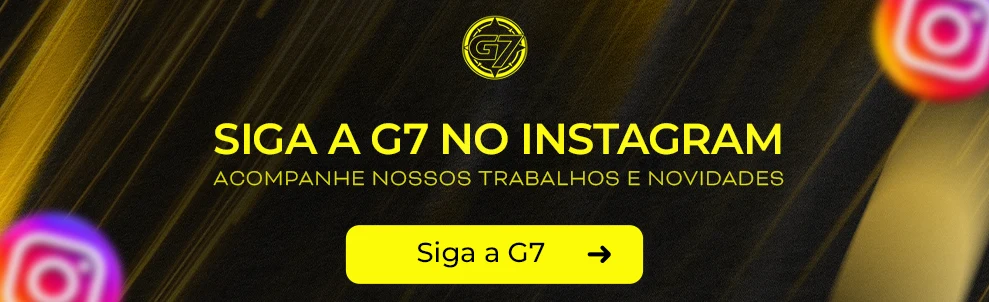
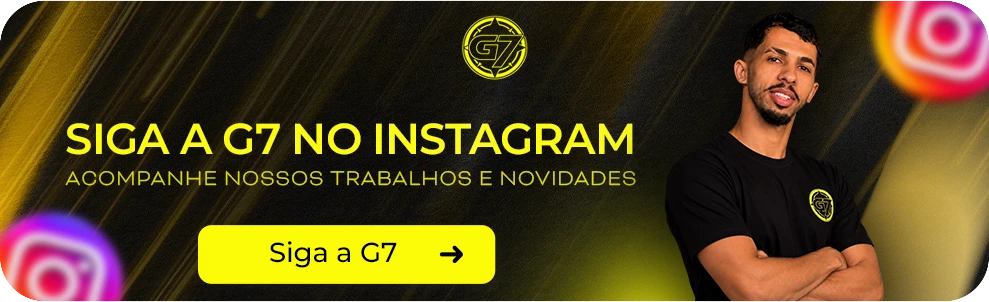
feat: novos cards de WhatsApp e Instagram e Meta Pixel
- Substitui as artes dos cards de WhatsApp e Instagram
- Ajusta o raio dos cantos dos cards para acompanhar as novas artes
- Adiciona o Meta Pixel 1071149672690517 com evento PageView

Changed region(s): [[0.0, 0.0596, 1.0, 1.0], [0.0, 0.0, 1.0, 0.0894]]

diff --git a/index.html b/index.html
@@ -23,6 +23,8 @@
       --gold: #e8b200;
       --text: #f4f4f4;
       --muted: #b9b49a;
+      /* raio dos cantos igual ao das artes (48px em 989px de largura) */
+      --radius: min(25px, calc((100vw - 32px) * .0485));
       --display: "Montserrat", system-ui, sans-serif;
       --wide: "Syncopate", "Montserrat", system-ui, sans-serif;
     }
@@ -131,15 +133,15 @@
     @keyframes orbit { to { --a: 360deg; } }
 
     .card {
-      position: relative; display: block; border-radius: 14px; line-height: 0;
+      position: relative; display: block; border-radius: var(--radius); line-height: 0;
       box-shadow: 0 8px 24px rgba(0,0,0,.6);
       transition: transform .22s ease, box-shadow .22s ease;
       -webkit-tap-highlight-color: transparent;
     }
-    .card img { width: 100%; height: auto; display: block; border-radius: 14px; }
+    .card img { width: 100%; height: auto; display: block; border-radius: var(--radius); }
     /* anel de luz circulando o card (mesmo efeito da logo) */
     .card::before {
-      content: ""; position: absolute; inset: -3px; border-radius: 17px; padding: 3px;
+      content: ""; position: absolute; inset: -3px; border-radius: calc(var(--radius) + 3px); padding: 3px;
       background: conic-gradient(from var(--a), rgba(252,244,0,.14) 0 45%, var(--yellow) 75%, rgba(252,244,0,.14) 92%);
       -webkit-mask: linear-gradient(#000 0 0) content-box, linear-gradient(#000 0 0);
       -webkit-mask-composite: xor;
@@ -151,7 +153,7 @@
     }
     /* brilho diagonal que varre o card */
     .card::after {
-      content: ""; position: absolute; inset: 0; border-radius: 14px; overflow: hidden; pointer-events: none;
+      content: ""; position: absolute; inset: 0; border-radius: var(--radius); overflow: hidden; pointer-events: none;
       background: linear-gradient(105deg, transparent 35%, rgba(255,255,255,.22) 50%, transparent 65%);
       background-size: 300% 100%; background-position: 150% 0; background-repeat: no-repeat;
       transition: background-position .8s ease;
@@ -179,8 +181,24 @@
       .beam { display: none; }
     }
   </style>
+  <!-- Meta Pixel Code -->
+  <script>
+    !function(f,b,e,v,n,t,s)
+    {if(f.fbq)return;n=f.fbq=function(){n.callMethod?
+    n.callMethod.apply(n,arguments):n.queue.push(arguments)};
+    if(!f._fbq)f._fbq=n;n.push=n;n.loaded=!0;n.version='2.0';
+    n.queue=[];t=b.createElement(e);t.async=!0;
+    t.src=v;s=b.getElementsByTagName(e)[0];
+    s.parentNode.insertBefore(t,s)}(window, document,'script',
+    'https://connect.facebook.net/en_US/fbevents.js');
+    fbq('init', '1071149672690517');
+    fbq('track', 'PageView');
+  </script>
+  <!-- End Meta Pixel Code -->
 </head>
 <body>
+  <noscript><img height="1" width="1" style="display:none" alt=""
+    src="https://www.facebook.com/tr?id=1071149672690517&ev=PageView&noscript=1"></noscript>
   <main>
     <header>
       <div class="beam" aria-hidden="true"></div>
